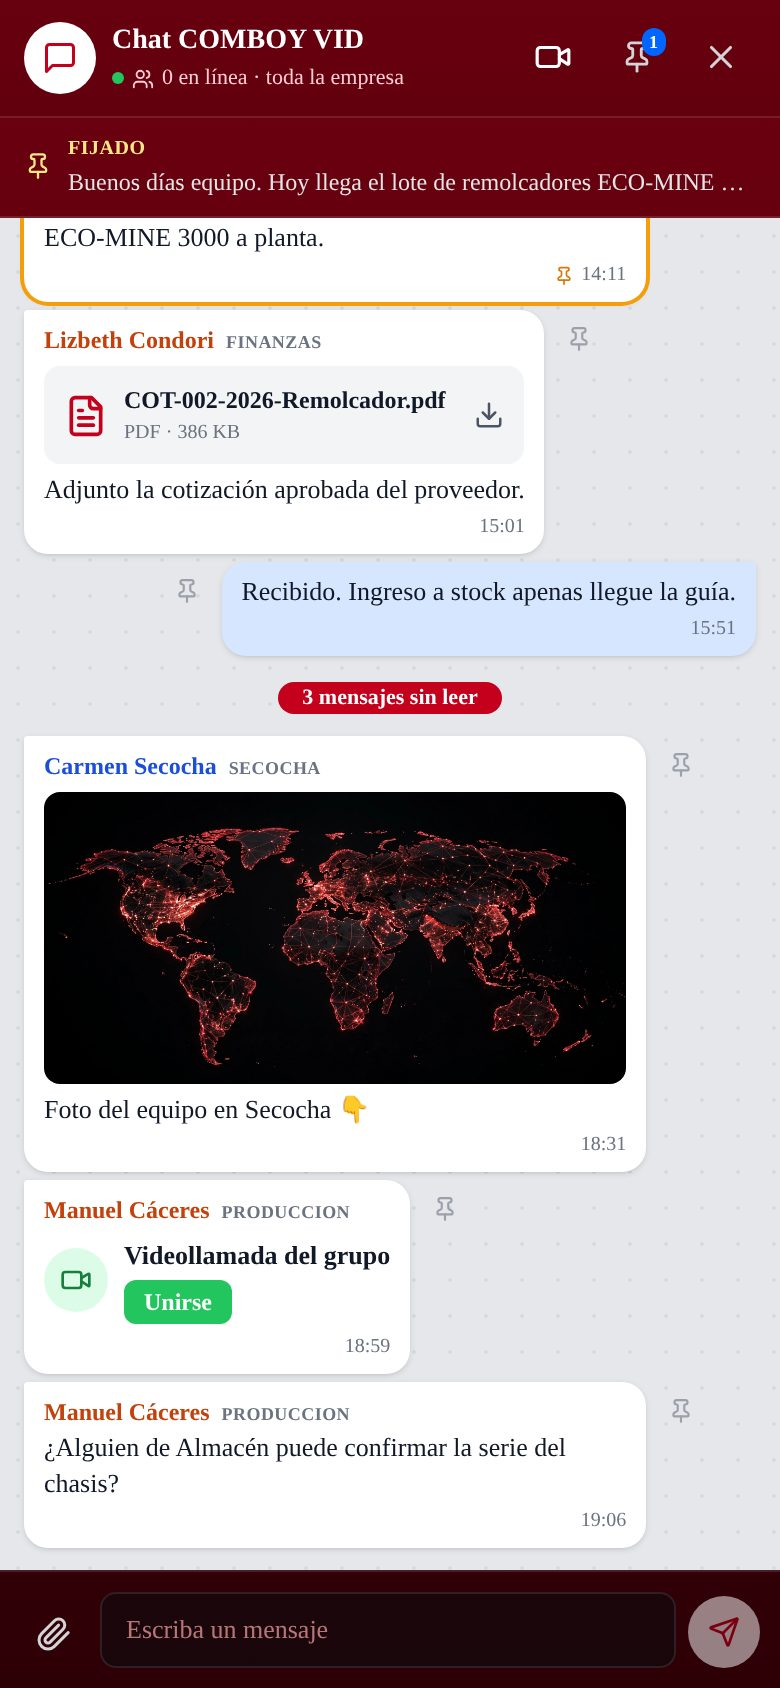
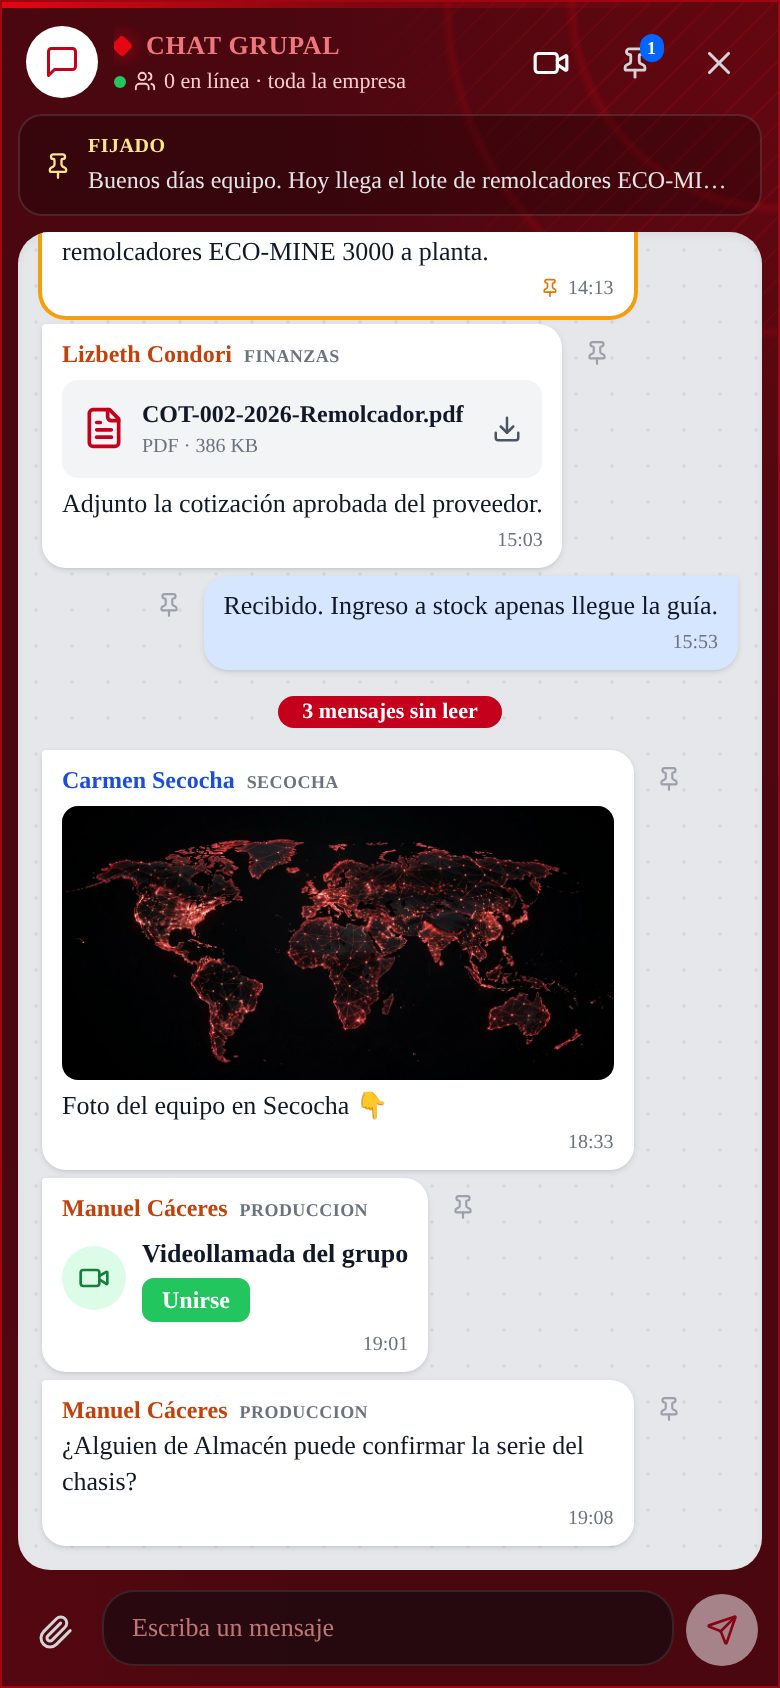
Chat grupal: cuadro con estilo abstracto del sistema y esquinas redondeadas
Claude-Session: https://claude.ai/code/session_01SNK96dJ8PBkEZtQ1b1NvbG

diff --git a/components/chat/ChatGlobal.tsx b/components/chat/ChatGlobal.tsx
@@ -3,6 +3,7 @@
 import { useEffect, useMemo, useRef, useState, type FormEvent, type KeyboardEvent } from "react";
 import { ChevronDown, ChevronLeft, Download, FileText, MessageSquare, Paperclip, Pin, PinOff, Send, Users, Video, X } from "lucide-react";
 import type { Sesion } from "@/lib/auth";
+import { estiloSeccion } from "@/lib/seccionColor";
 import { MAX_ADJUNTO, esAudio, esImagen, esVideo, tamanoLegible, useChatGlobal, type MensajeChat } from "@/lib/chat";
 import { usePresencia } from "@/lib/presencia";
 
@@ -160,7 +161,7 @@ export function ChatGlobal({ sesion, modulo, abierto, setAbierto }: { sesion: Se
         aria-label={sinLeer ? `Abrir chat grupal: ${sinLeer} mensajes sin leer` : "Abrir chat grupal"}
         title="Chat grupal COMBOY VID"
         className={`chat-barra fixed z-30 flex items-center justify-center gap-2 text-white shadow-2xl print:hidden ${
-          movil ? "bottom-20 left-4 h-14 w-14 rounded-full" : "left-0 top-1/2 h-auto w-11 -translate-y-1/2 flex-col rounded-r-xl border border-l-0 px-1 py-4"
+          movil ? "bottom-20 left-4 h-14 w-14 rounded-full" : "left-0 top-1/2 h-auto w-11 -translate-y-1/2 flex-col rounded-r-2xl border border-l-0 px-1 py-4"
         } ${sinLeer ? "chat-parpadeo border-white/40 bg-[#e0001b]" : "border-white/[0.15] bg-[#9b0016] hover:bg-[#c4001c]"}`}
       >
         <MessageSquare size={movil ? 24 : 19} />
@@ -181,17 +182,18 @@ export function ChatGlobal({ sesion, modulo, abierto, setAbierto }: { sesion: Se
     <aside
       aria-label="Chat grupal"
       data-sin-guardar
-      className={`chat-barra chat-rojo fixed z-30 flex flex-col border-white/[0.12] print:hidden ${
-        movil ? "inset-0 z-[75]" : "bottom-0 left-0 top-16 w-[360px] border-r"
+      style={estiloSeccion(1)}
+      className={`chat-barra chat-rojo seccion fixed z-30 flex flex-col border print:hidden ${
+        movil ? "inset-0 z-[75]" : "bottom-3 left-3 top-[76px] w-[340px] rounded-2xl shadow-2xl"
       }`}
     >
       {/* Encabezado */}
-      <header className="flex items-center gap-2 border-b border-white/[0.12] bg-black/25 px-3 py-2.5">
+      <header className="flex items-center gap-2 px-3 pb-2 pt-3">
         <span className="flex h-9 w-9 shrink-0 items-center justify-center rounded-full bg-white text-[#c4001c]">
           <MessageSquare size={18} />
         </span>
         <div className="min-w-0 flex-1">
-          <p className="truncate text-[14px] font-bold text-white">Chat COMBOY VID</p>
+          <p className="seccion-titulo truncate text-[13px] font-bold uppercase tracking-wide">Chat grupal</p>
           <p className="flex items-center gap-1 truncate text-[11px] text-[#fecdd3]" title={conectados.map((c) => `${c.nombre || c.usuario} (${c.modulo})`).join(", ")}>
             <span className="h-1.5 w-1.5 rounded-full bg-[#22c55e]" aria-hidden />
             <Users size={11} /> {conectados.length} en línea · toda la empresa
@@ -211,7 +213,7 @@ export function ChatGlobal({ sesion, modulo, abierto, setAbierto }: { sesion: Se
 
       {/* Último fijado (como WhatsApp) */}
       {fijados.length > 0 && !verFijados && (
-        <button type="button" onClick={() => irA(fijados[0].id)} className="flex items-center gap-2 border-b border-white/[0.12] bg-black/20 px-3 py-2 text-left hover:bg-black/30">
+        <button type="button" onClick={() => irA(fijados[0].id)} className="mx-2 mb-2 flex items-center gap-2 rounded-xl border border-white/[0.12] bg-black/25 px-3 py-2 text-left hover:bg-black/35">
           <Pin size={14} className="shrink-0 text-[#fde68a]" />
           <span className="min-w-0 flex-1">
             <span className="block text-[10px] font-bold uppercase tracking-wide text-[#fde68a]">Fijado{fijados.length > 1 ? ` · 1 de ${fijados.length}` : ""}</span>
@@ -221,7 +223,7 @@ export function ChatGlobal({ sesion, modulo, abierto, setAbierto }: { sesion: Se
       )}
 
       {verFijados ? (
-        <div className="chat-claro min-h-0 flex-1 space-y-2 overflow-y-auto p-3">
+        <div className="chat-claro mx-2 min-h-0 flex-1 space-y-2 overflow-y-auto rounded-2xl p-3">
           <p className="text-[12px] font-bold uppercase tracking-wide text-[#4b5563]">Mensajes fijados ({fijados.length})</p>
           {fijados.length === 0 && <p className="text-[12px] text-[#4b5563]">No hay mensajes fijados. Pase el mouse sobre un mensaje y toque el pin.</p>}
           {fijados.map((m) => (
@@ -248,7 +250,7 @@ export function ChatGlobal({ sesion, modulo, abierto, setAbierto }: { sesion: Se
             const el = e.currentTarget;
             setAbajo(el.scrollHeight - el.scrollTop - el.clientHeight < 60);
           }}
-          className="chat-fondo chat-claro relative min-h-0 flex-1 overflow-y-auto px-3 py-2"
+          className="chat-fondo chat-claro relative mx-2 min-h-0 flex-1 overflow-y-auto rounded-2xl px-3 py-2 shadow-inner"
         >
           {faltaTabla && (
             <p className="my-2 rounded-lg bg-white px-3 py-2 text-[12px] italic text-[#4b5563]">Falta activar el chat: ejecute supabase/migrations/20261128_chat_global.sql en Supabase.</p>
@@ -293,7 +295,7 @@ export function ChatGlobal({ sesion, modulo, abierto, setAbierto }: { sesion: Se
       )}
 
       {/* Redactar */}
-      <form onSubmit={mandar} className="border-t border-white/[0.12] bg-black/25 p-2.5">
+      <form onSubmit={mandar} className="p-2.5">
         {archivo && (
           <div className="mb-2 flex items-center gap-2 rounded-lg border border-white/[0.1] bg-white/[0.05] px-2.5 py-1.5 text-[12px] text-white">
             <FileText size={15} className="shrink-0 text-[#7dd3fc]" />
@@ -319,7 +321,7 @@ export function ChatGlobal({ sesion, modulo, abierto, setAbierto }: { sesion: Se
             disabled={faltaTabla}
             placeholder={archivo ? "Agregar un comentario…" : "Escriba un mensaje"}
             aria-label="Mensaje para el chat grupal"
-            className="max-h-32 min-h-[38px] min-w-0 flex-1 resize-none rounded-lg border border-white/[0.08] bg-black/30 px-3 py-2 text-[13px] text-white placeholder:text-[#fca5a5]/70 focus:border-white focus:outline-none"
+            className="max-h-32 min-h-[38px] min-w-0 flex-1 resize-none rounded-2xl border border-white/[0.12] bg-black/30 px-3.5 py-2 text-[13px] text-white placeholder:text-[#fca5a5]/70 focus:border-white focus:outline-none"
           />
           <button type="submit" disabled={enviando || (!texto.trim() && !archivo)} aria-label="Enviar" className="rounded-full bg-white p-2.5 text-[#c4001c] disabled:opacity-50">
             <Send size={16} />

diff --git a/app/globals.css b/app/globals.css
@@ -399,7 +399,9 @@ body[data-modo-pestana] [data-guardar-pestana] {
   background-size: 18px 18px;
 }
 /* Fondo rojo de la barra del chat (pedido de Williams 2026-11-16: izquierda, fondo rojo) */
-.chat-rojo { background: linear-gradient(180deg, #8a0014 0%, #5e000e 55%, #3d0009 100%); }
+.chat-rojo { background-color: #4a0710; }
+.tema-planta .chat-rojo.seccion { position: fixed; background-color: rgba(74, 7, 16, 0.94); border-color: rgb(var(--sec) / 0.55); }
+@media (max-width: 1023px) { .tema-planta .chat-rojo.seccion { background-color: #4a0710; } }
 /* Pestaña "Guardar y Cerrar" (barra fija abajo, z-60): el chat termina encima de ella */
 @media (min-width: 1024px) {
   body[data-modo-pestana] aside.chat-barra { bottom: 64px; }
